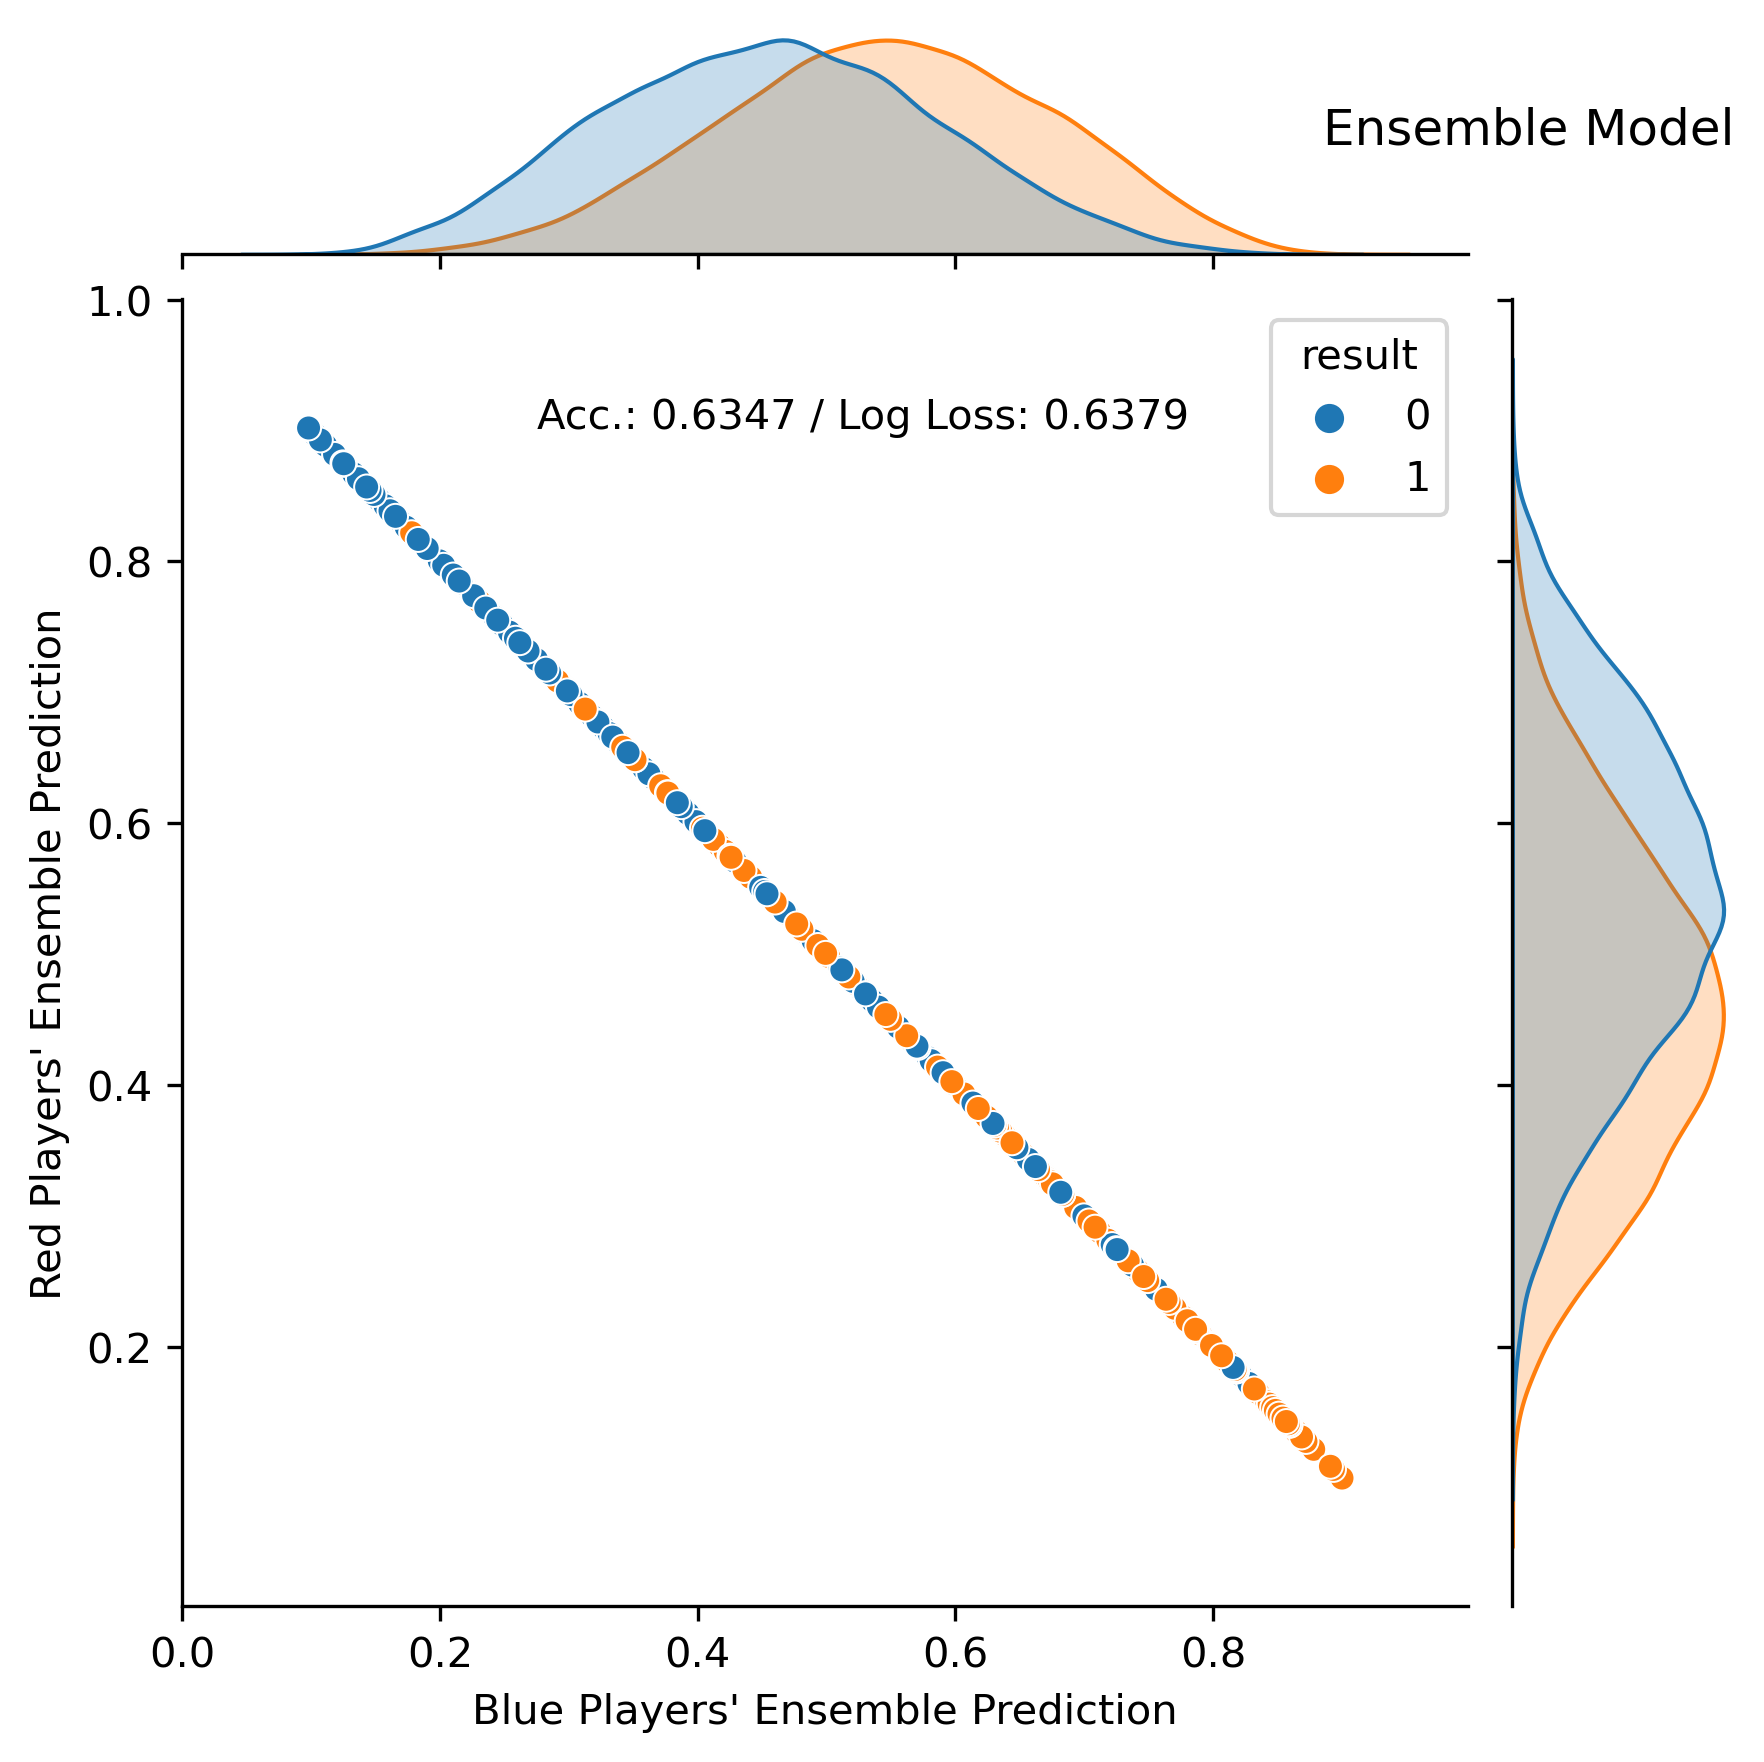
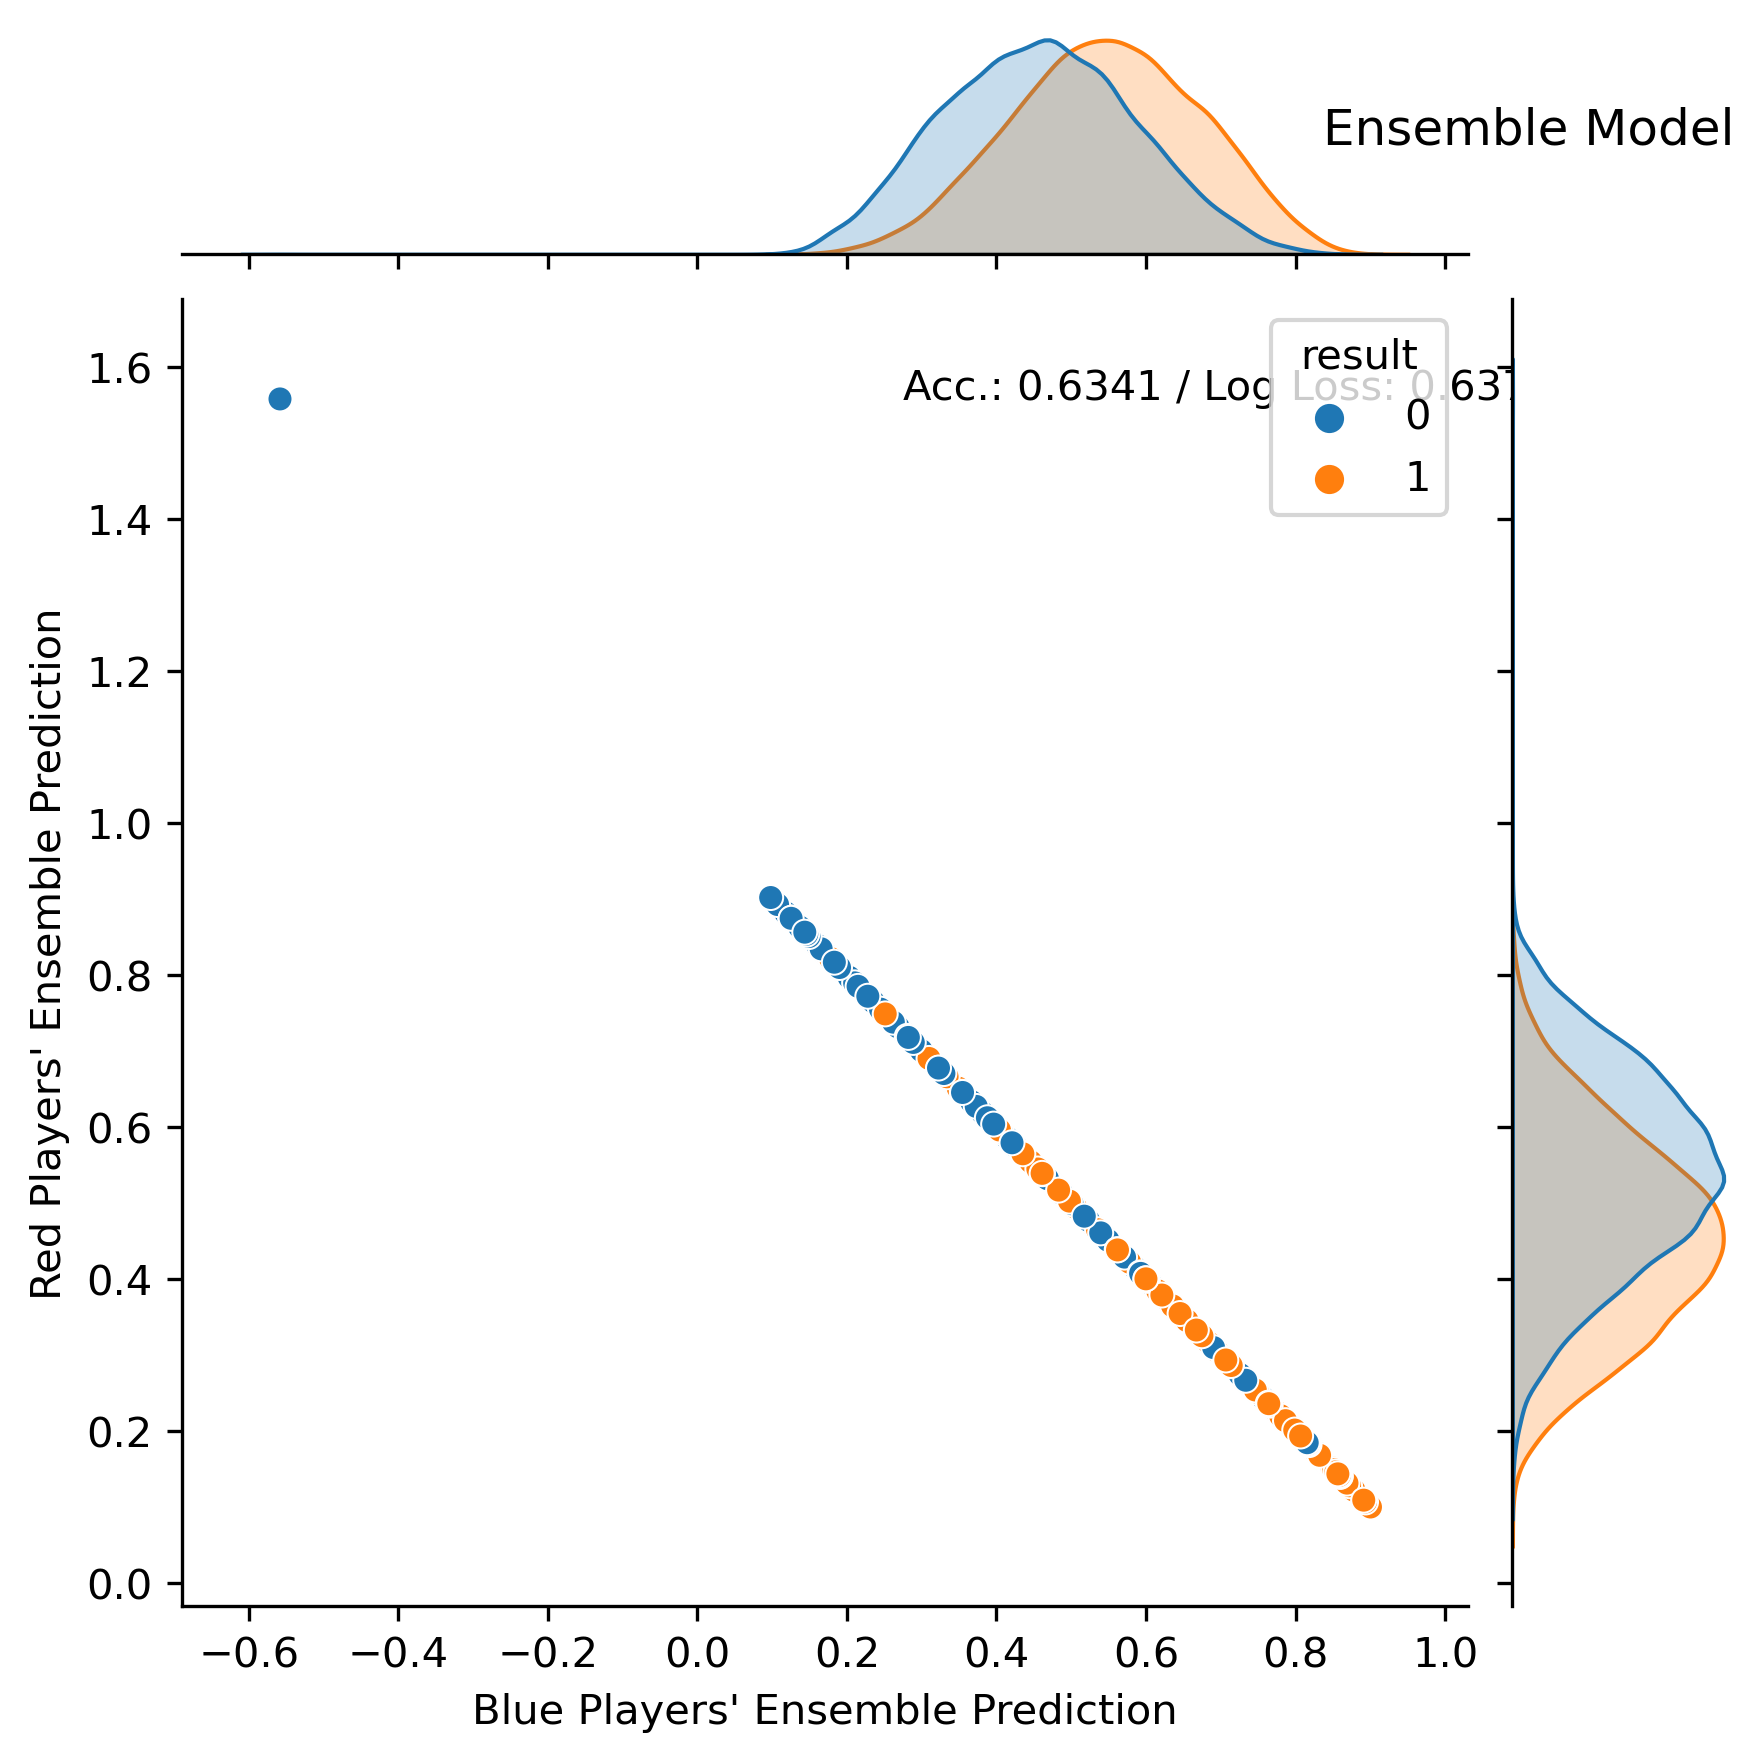
Validation and Display
Updating decimal formatting for Discord bot, and updating validation graphs.

diff --git a/src/schedule_generator.py b/src/schedule_generator.py
@@ -42,7 +42,8 @@ def __team_namer(team_name: str) -> str:
         "NONGSHIM REDFORCE": "Nongshim RedForce",
         "NongShim REDFORCE": "Nongshim RedForce",
         "EXCEL": "Excel Esports",
-        "Dignitas QNTMPAY": "Dignitas"
+        "Dignitas QNTMPAY": "Dignitas",
+        "Immortals Progressive": "Immortals"
     }
 
     if team_name in misnomers.keys():
@@ -146,7 +147,7 @@ def main():
 
     matches = upcoming_schedule(leagues=None,
                                 api_url=url, api_key=key,
-                                days=6)
+                                days=5)
 
     if isinstance(matches, pd.DataFrame):
         matches = matches[["league", "team1Name", "team2Name", "startTime", "seriesType"]]

diff --git a/src/predictor_bot.py b/src/predictor_bot.py
@@ -32,7 +32,7 @@ async def schedule(ctx, league):
     try:
         output = pd.read_csv(Path.cwd().parent.joinpath('data', 'processed', 'schedule.csv'))
         output = output[output["league"] == league].drop(['league'], axis=1).reset_index(drop=True)
-        output = f"Upcoming {league} Games (Next 10 Games Within One Week): \n \n" \
+        output = f"Upcoming {league} Games (Next 10 Games Within 5 Days): \n \n" \
                  f"`{output.head(10).to_markdown()}` \n \n" \
                  "NOTE: Win percentages use the last fielded roster! Try predict_draft if you need substitutions."
     except Exception as e:

diff --git a/src/match_predictor.py b/src/match_predictor.py
@@ -14,7 +14,7 @@ from scipy.stats import norm
 from src.team import Team
 from src.model_validator import generate_validation_metrics
 
-pd.options.display.float_format = '{:,.3f}'.format
+pd.options.display.float_format = '{:,.4f}'.format
 
 
 def predict_match(blue: Team, red: Team) -> pd.DataFrame:
